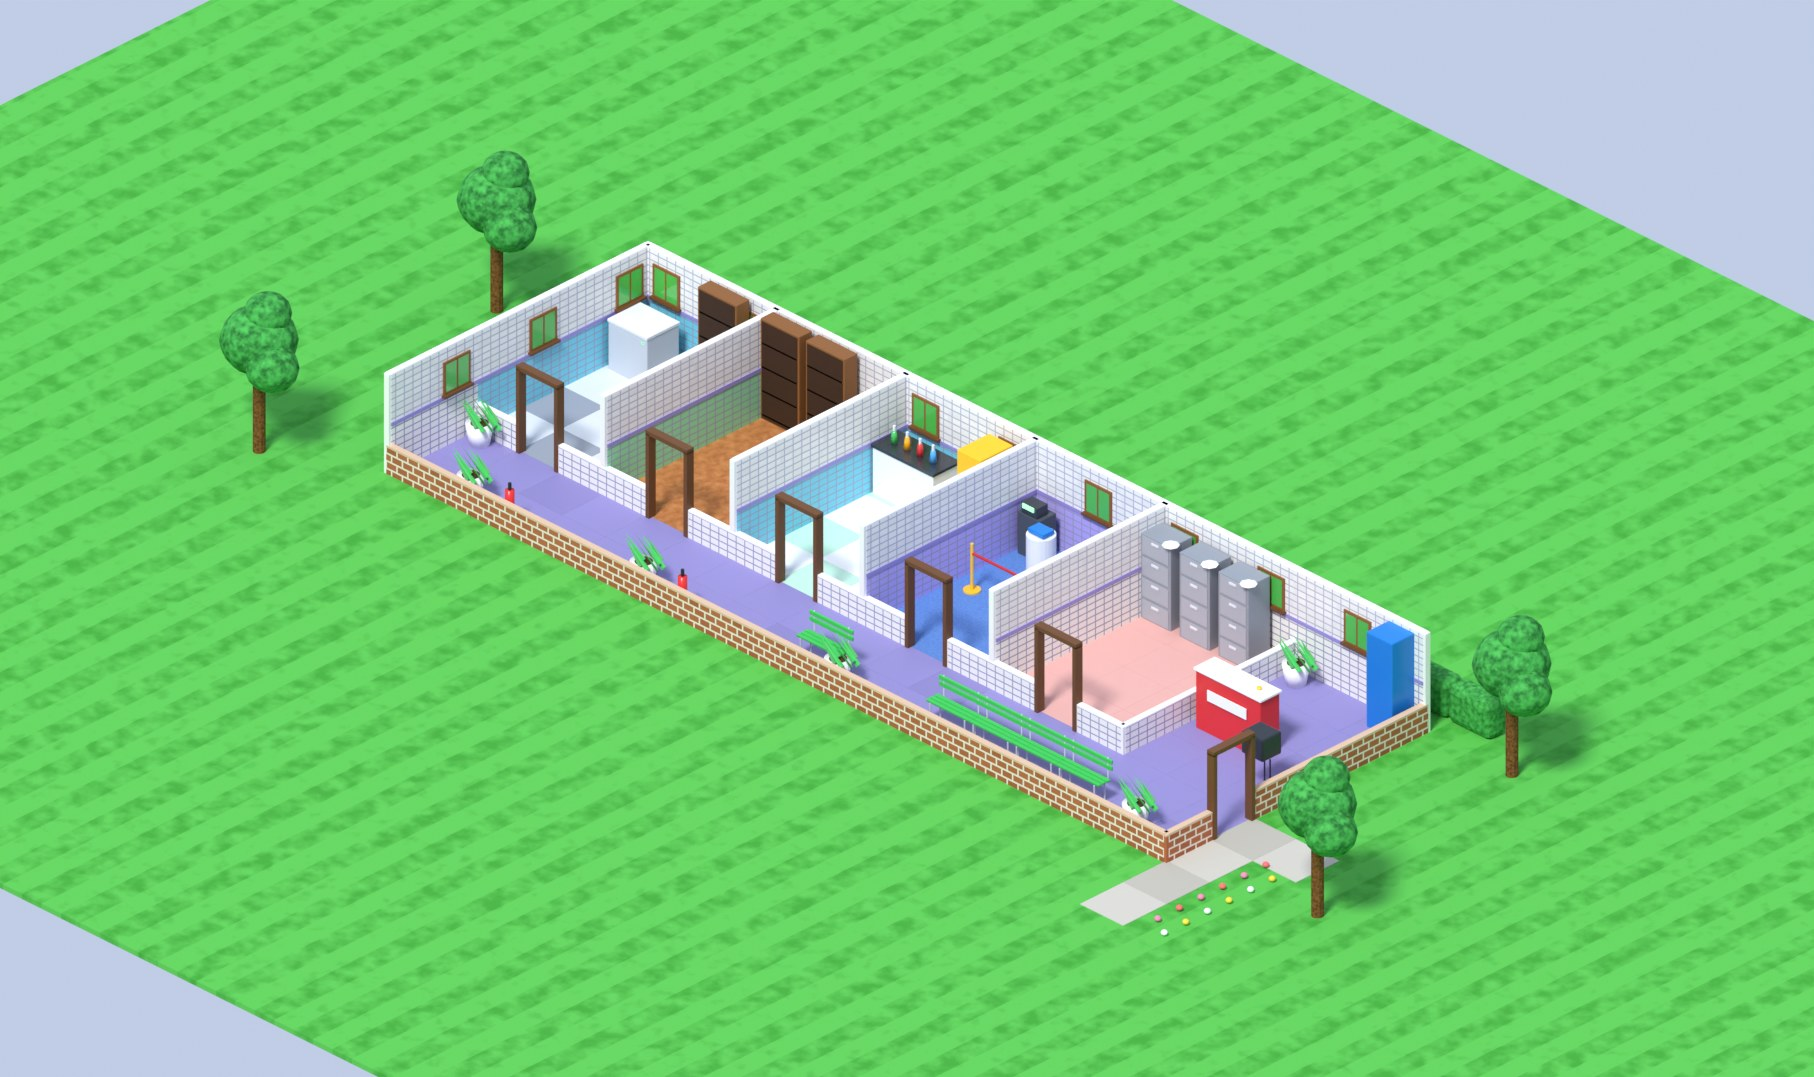
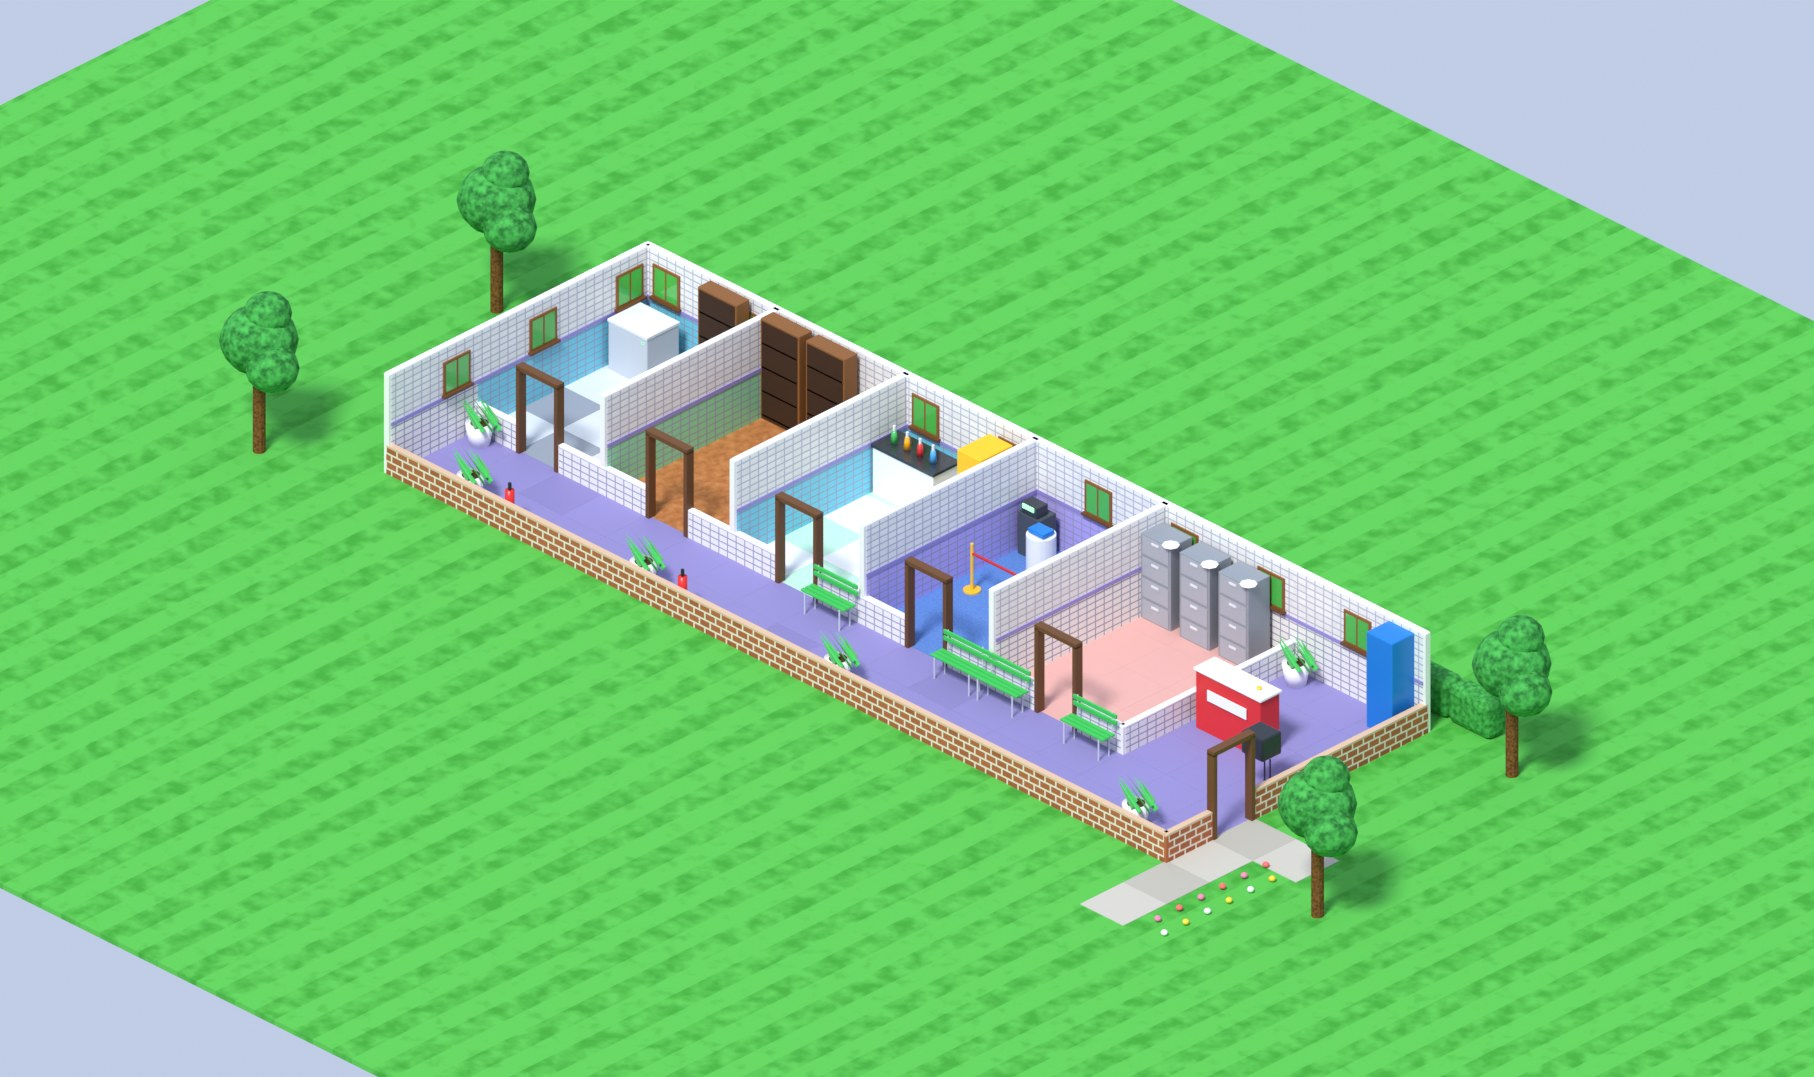
Combat en question-réponse, bancs face au couloir
- Combat : chaque échange repart d'une question d'Aurelien ; on choisit une
  réponse rédigée (le coup associé en petit), Dylan la prononce, puis l'attaque
  part. Correction d'une erreur clavier pendant la réplique.
- Centre de doc : bancs déplacés contre le mur des salles, assis face au
  couloir ; places assises de la file recalées dessus.

Claude-Session: https://claude.ai/code/session_011NWR5Wuob6Uw4BFYC3fWqb

Changed region(s): [[0.4322, 0.5209, 0.6174, 0.7354]]

diff --git a/village-talas-scene.html b/village-talas-scene.html
@@ -1309,13 +1309,13 @@ async function trial(n,fn,cause){
 
 /* ================= MINI-JEU : L'ARÈNE (combat 2D façon borne d'arcade) ================= */
 const SK={
- resp:{id:'resp',name:'UPPERCUT §5.1',desc:'La responsabilité ne se délègue pas.',fb:'§5.1 : la direction assume la responsabilité de la prévention. Elle délègue des tâches, jamais la responsabilité.'},
- cout:{id:'cout',name:'TABLEUR DES COÛTS CACHÉS',desc:'Quatorze onglets d’Excel, quatorze claques.',fb:'14 accidents avec arrêt, des jours perdus, un client qui peut partir : la SST est un investissement (§5.1 c).'},
- bird:{id:'bird',name:'PYRAMIDE DE BIRD',desc:'600 presque-accidents tombent du ciel.',fb:'Plus de signalements, c’est moins d’accidents graves. Et la direction protège ceux qui signalent (§5.1 j).'},
- cse:{id:'cse',name:'INVOCATION DU CSE',desc:'Mathilde et 40 opérateurs débarquent.',fb:'§5.4 : consultation et participation des travailleurs non cadres. Ce sont eux qui voient les vrais dangers.'},
- revue:{id:'revue',name:'REVUE DE DIRECTION ÉCLAIR',desc:'Agenda, décisions, compte rendu. La foudre.',fb:'La politique vit dans les processus et se pilote en revue de direction (§5.1 d, §9.3).'},
- obj:{id:'obj',name:'FLÉCHETTES S.M.A.R.T.',desc:'Cinq objectifs plantés dans le front.',fb:'§6.2 : des objectifs mesurables, suivis, avec des moyens, un responsable et une échéance. « Pas de souci », ça ne se mesure pas.'},
- role:{id:'role',name:'ORGANIGRAMME BOOMERANG',desc:'Chaque case revient avec un nom dessus.',fb:'§5.3 : la direction attribue et communique les rôles, responsabilités et autorités à tous les niveaux. Tout le monde, c’est personne.'}
+ resp:{id:'resp',ans:'La direction reste responsable de la sécurité : on délègue des tâches, jamais la responsabilité.',name:'UPPERCUT §5.1',desc:'La responsabilité ne se délègue pas.',fb:'§5.1 : la direction assume la responsabilité de la prévention. Elle délègue des tâches, jamais la responsabilité.'},
+ cout:{id:'cout',ans:'Les accidents coûtent plus cher que la prévention : arrêts, retards, clients perdus.',name:'TABLEUR DES COÛTS CACHÉS',desc:'Quatorze onglets d’Excel, quatorze claques.',fb:'14 accidents avec arrêt, des jours perdus, un client qui peut partir : la SST est un investissement (§5.1 c).'},
+ bird:{id:'bird',ans:'Chaque presque-accident signalé, c’est un accident grave évité demain.',name:'PYRAMIDE DE BIRD',desc:'600 presque-accidents tombent du ciel.',fb:'Plus de signalements, c’est moins d’accidents graves. Et la direction protège ceux qui signalent (§5.1 j).'},
+ cse:{id:'cse',ans:'Les travailleurs et le CSE doivent être consultés : ce sont eux qui voient les dangers.',name:'INVOCATION DU CSE',desc:'Mathilde et 40 opérateurs débarquent.',fb:'§5.4 : consultation et participation des travailleurs non cadres. Ce sont eux qui voient les vrais dangers.'},
+ revue:{id:'revue',ans:'La politique se pilote en revue de direction, avec des décisions et des moyens.',name:'REVUE DE DIRECTION ÉCLAIR',desc:'Agenda, décisions, compte rendu. La foudre.',fb:'La politique vit dans les processus et se pilote en revue de direction (§5.1 d, §9.3).'},
+ obj:{id:'obj',ans:'Il faut un objectif mesurable et daté, avec un responsable et des moyens.',name:'FLÉCHETTES S.M.A.R.T.',desc:'Cinq objectifs plantés dans le front.',fb:'§6.2 : des objectifs mesurables, suivis, avec des moyens, un responsable et une échéance. « Pas de souci », ça ne se mesure pas.'},
+ role:{id:'role',ans:'Chaque rôle doit être attribué et connu de tous, à tous les niveaux.',name:'ORGANIGRAMME BOOMERANG',desc:'Chaque case revient avec un nom dessus.',fb:'§5.3 : la direction attribue et communique les rôles, responsabilités et autorités à tous les niveaux. Tout le monde, c’est personne.'}
 };
 /* ps : l'animation de riposte, jouée en 2D par arena2D */
 const ATK=[
@@ -1644,19 +1644,20 @@ function arena2D(STAGE){
   function drawUI(t){const U=A.ui;if(!U)return;U.t+=1/60;const n=Math.floor(U.t*70);
     if(U.mode==='ask'){const L=wrap(U.line,W-40,8),bh=16+L.length*10;panel(8,46,W-16,bh);atext(U.title,14,54,10,'#fff6b0','#f0a000','left');
       let k=0;L.forEach((l,i)=>{const vis=l.slice(0,Math.max(0,n-k));k+=l.length;ptext(vis,14,62+i*10,8,'#ffffff')});
-      const bx=42,bw=W-84,by=H-6-U.opts.length*17-14;panel(bx,by,bw,U.opts.length*17+12);ptext('CONTRE-ATTAQUE',bx+6,by+3,7,'#8fe6ff');ptext(TOUCH?'touche un coup':'1 à 4 ou flèches + Espace',bx+bw-6,by+3,6,'#b8c4e6','right');
-      U.rects=[];U.opts.forEach((o,i)=>{const y=by+12+i*17;U.rects.push([bx,y,bw,17]);if(i===U.sel){g.fillStyle='rgba(255,214,70,.22)';g.fillRect(bx+2,y,bw-4,16);if(((t*4)|0)%2)ptext('▶',bx+4,y+3,8,'#ffd43b')}
-        ptext(String(i+1),bx+14,y+3,8,'#ffd43b');atext(o.name,bx+26,y+7,9,'#fff4c8','#f08c00','left');const dw=bw-40;ptext(wrap(o.desc,dw*.6,6)[0],bx+bw-6,y+5,6,'#c9d3ee','right')})}
+      const RH=22,bx=30,bw=W-60,by=H-6-U.opts.length*RH-14;panel(bx,by,bw,U.opts.length*RH+12);ptext('TA RÉPONSE',bx+6,by+3,7,'#8fe6ff');ptext(TOUCH?'touche une réponse':'1 à 4 ou flèches + Espace',bx+bw-6,by+3,6,'#b8c4e6','right');
+      U.rects=[];U.opts.forEach((o,i)=>{const y=by+12+i*RH;U.rects.push([bx,y,bw,RH]);if(i===U.sel){g.fillStyle='rgba(255,214,70,.22)';g.fillRect(bx+2,y,bw-4,RH-1);if(((t*4)|0)%2)ptext('▶',bx+3,y+6,8,'#ffd43b')}
+        ptext(String(i+1),bx+13,y+6,8,'#ffd43b');wrap('« '+o.ans+' »',bw-110,7).slice(0,2).forEach((l,k)=>ptext(l,bx+24,y+2+k*9,7,'#ffffff'));ptext('→ '+o.name,bx+bw-6,y+7,6,'#ffd8a8','right')})}
+    else if(U.mode==='cap'){const L=wrap(U.text,W-40,8),bh=16+L.length*10;panel(8,46,W-16,bh);atext(U.title,14,54,10,'#d3ffd8','#20b040','left');L.forEach((l,i)=>ptext(l,14,62+i*10,8,'#ffffff'))}
     else if(U.mode==='tell'){const L=wrap(U.text,W-100,8),bh=Math.min(H-60,24+L.length*10);const by=H-6-bh;panel(42,by,W-84,bh);atext(U.title,48,by+8,10,U.c1,U.c2,'left');
       let k=0;L.forEach((l,i)=>{const vis=l.slice(0,Math.max(0,n-k));k+=l.length;ptext(vis,48,by+16+i*10,8,'#ffffff')});
       if(n>=U.text.length&&((t*2.5)|0)%2)ptext(TOUCH?'▶ TOUCHE':'▶ ESPACE',W-50,by+bh-11,7,'#ffd43b','right')}}
-  function uiKey(e){const U=A.ui;if(!U)return;const n=Math.floor(U.t*70),full=(U.mode==='tell'?U.text:U.line).length;
+  function uiKey(e){const U=A.ui;if(!U||U.mode==='cap')return;const n=Math.floor(U.t*70),full=(U.mode==='tell'?U.text:U.line).length;
     if(U.mode==='ask'){const d=+e.key;if(d>=1&&d<=U.opts.length){U.done(U.opts[d-1]);e.preventDefault();return}
       if(e.key==='ArrowUp'||e.key==='z'||e.key==='Z'){U.sel=(U.sel+U.opts.length-1)%U.opts.length;beep(700,.03,'square',.03);e.preventDefault()}
       else if(e.key==='ArrowDown'||e.key==='s'||e.key==='S'){U.sel=(U.sel+1)%U.opts.length;beep(700,.03,'square',.03);e.preventDefault()}
       else if(e.key===' '||e.key==='Enter'){U.done(U.opts[U.sel]);e.preventDefault()}}
     else if(e.key===' '||e.key==='Enter'){if(n<full)U.t=99;else U.done();e.preventDefault()}}
-  function uiClick(e){const U=A.ui;if(!U)return;const rc=c.getBoundingClientRect(),x=(e.clientX-rc.left)/rc.width*W,y=(e.clientY-rc.top)/rc.height*H;
+  function uiClick(e){const U=A.ui;if(!U||U.mode==='cap')return;const rc=c.getBoundingClientRect(),x=(e.clientX-rc.left)/rc.width*W,y=(e.clientY-rc.top)/rc.height*H;
     if(U.mode==='ask'){(U.rects||[]).forEach(([rx,ry,rw,rh],i)=>{if(x>=rx&&x<=rx+rw&&y>=ry&&y<=ry+rh)U.done(U.opts[i])})}
     else{if(U.t*70<U.text.length)U.t=99;else U.done()}}
   addEventListener('keydown',uiKey);c.addEventListener('pointerdown',uiClick);
@@ -1807,6 +1808,7 @@ function arena2D(STAGE){
       Wn.busy=1;tween(.6,k=>{Wn.aF=1+k*2;Wn.aB=1-k*.5;Wn.y=Math.abs(Math.sin(k*Math.PI*2))*8});A.cheer=1;
       say3((Wn===D?'DYLAN':'AURELIEN')+' GAGNE !',{y:96,size:18,life:1.8});await wait(1600)},
     ask(title,line,opts){return openUI({mode:'ask',title,line,opts})},
+    async cap(title,text,ms){A.ui={mode:'cap',title,text,t:0,done:()=>{}};await wait(ms);if(A.ui&&A.ui.mode==='cap')A.ui=null},
     tell(title,text,good){return openUI({mode:'tell',title,text,c1:good===false?'#ffc9c9':good?'#d3ffd8':'#fff6b0',c2:good===false?'#e03131':good?'#20b040':'#f0a000'})},
     cancelUI(){if(A.ui){const u=A.ui;A.ui=null;c.style.pointerEvents='none'}},
     destroy(){removeEventListener('keydown',uiKey);A.run=false;c.remove();$('#hud').style.visibility=''}
@@ -1838,8 +1840,8 @@ async function battle(n){
       if(a===r2[0]){A.round1();await A.rage();await A.intro(2);await A.tell('AURELIEN ENRAGE !','Sa cravate se dresse, il tape du poing sur le bureau : « Tu crois m’avoir ? Deuxième round ! »',false)}
       A.taunt(a.name);
       const opts=shuffle([SK[a.counter],...shuffle(Object.values(SK).filter(s=>s.id!==a.counter)).slice(0,3)]);
-      const sk=await Promise.race([A.ask(a.name+' !',a.line,opts),A.timer(45)]);
-      A.stop();A.cancelUI();
+      const sk=await Promise.race([A.ask('AURELIEN : « '+a.name+' »',a.line+' Que lui réponds-tu ?',opts),A.timer(45)]);
+      A.stop();A.cancelUI();if(sk)await A.cap('DYLAN RÉPOND','« '+sk.ans+' »',2200);
       const ok=!!sk&&sk.id===a.counter;pts(n,ok);
       if(sk)await A.skill(sk.id,ok,ok?Math.round(rand(25,30)):5);else await A.timeOver();
       if(ok){await A.tell('C’EST SUPER EFFICACE !',a.fb||SK[a.counter].fb,true);continue}
@@ -1880,7 +1882,7 @@ const DOCQ=[
 ];
 const DOCR=[{n:'LÉGIFRANCE',s:'Code du travail',c:'#b197fc',k:'1'},{n:'INRS',s:'guides, VLEP',c:'#ffa94d',k:'2'},{n:'FDS',s:'fiches fournisseur',c:'#69db7c',k:'3'},{n:'ISO 45001',s:'la norme (AFNOR)',c:'#4dabf7',k:'4'},{n:'ARCHIVES',s:'registres, DUERP',c:'#ff8787',k:'5'}];
 
-const DOCV='2';
+const DOCV='3';
 /* Personnages du centre de doc : les mêmes bonshommes 3D que dans les autres mini-jeux (makePerson, cel-shading, contour),
    rendus une fois au lancement en planches de sprites, vus avec la caméra isométrique du décor pré-calculé. */
 const DOC_FRAMES=['wf0','wf1','wf2','wf3','wf4','wf5','wf6','wf7','wb0','wb1','wb2','wb3','wb4','wb5','wb6','wb7','if','ib','sit','pk0','pk1','wat','wk0','wk1','wk2','wk3','mp0','mp1','mp2','mp3'];
@@ -1953,7 +1955,7 @@ function docs2D(n,cfg){return new Promise(async res=>{
   function path(a,b,c2,d){const key=(i,j)=>i*30+j,prev={},Q=[[a,b]];prev[key(a,b)]=-1;
     while(Q.length){const[i,j]=Q.shift();if(i===c2&&j===d)break;for(const[di,dj]of[[1,0],[-1,0],[0,1],[0,-1]]){const x=i+di,y=j+dj;if(prev[key(x,y)]===undefined&&pass(i,j,x,y)){prev[key(x,y)]=key(i,j);Q.push([x,y])}}}
     const out=[];let k=key(c2,d);if(prev[k]===undefined)return[[c2,d]];while(k!==-1){out.unshift([Math.floor(k/30),k%30]);k=prev[k]}return out}
-  const QS=[[17,4],[16,4],[16,5],[15,5],[16,6],[15,6],[14,6],[13,6],[12,6],[10,6]];
+  const QS=[[17,4],[16,4],[17,5],[16,6],[15,5],[13,5],[12,5],[9,5],[15,6],[13,6]];   /* 4 à 7 : assis sur les bancs du couloir */
   /* --- caméra et projection : environ six cases à l'écran, comme dans le jeu --- */
   const cam={x:0,y:0,man:0};let first=true;
   function size(){const w=Math.round(GW*.75);if(w===W)return;W=w;c.width=W;c.height=H;S=SM.S}

diff --git a/village-talas.html b/village-talas.html
@@ -86,7 +86,7 @@ html body :is(button:disabled,[aria-disabled="true"]){cursor:not-allowed}
 <section class="band band--gouache band--project" id="village-talas"><div class="wrap corners">
  <div class="section-label"><span>Projet personnel</span><span>Jeu sérieux · Three.js</span></div>
  <div class="section-heading"><h1 class="page-title">Le Village Talas, l’ISO 45001 <em>en sept mini-jeux.</em></h1><p>Dylan, alternant HSE chez un sous-traitant aéronautique, a douze mois pour obtenir la certification ISO 45001 exigée par Airbus. Chaque bâtiment du village est un chapitre de la norme, avec son propre mini-jeu, et les choix faits dans un atelier reviennent dans les autres.</p></div>
- <figure class="gouache-preview preview--wide"><iframe src="village-talas-scene.html?v=20260925-23" title="Le Village Talas : jeu interactif" loading="lazy" allowfullscreen></iframe><figcaption><button type="button" class="talas-fs" id="talas-fs">Plein écran</button> Souris ou doigt pour viser, tourner et éclairer · flèches et Espace sur l’échafaudage et au casse-briques · « Tout ouvrir » pour accéder directement à un chapitre · jeu en paysage sur téléphone</figcaption></figure>
+ <figure class="gouache-preview preview--wide"><iframe src="village-talas-scene.html?v=20260925-24" title="Le Village Talas : jeu interactif" loading="lazy" allowfullscreen></iframe><figcaption><button type="button" class="talas-fs" id="talas-fs">Plein écran</button> Souris ou doigt pour viser, tourner et éclairer · flèches et Espace sur l’échafaudage et au casse-briques · « Tout ouvrir » pour accéder directement à un chapitre · jeu en paysage sur téléphone</figcaption></figure>
  <div class="quality-grid gouache-features"><article><span class="skill-kicker">§4 · §5</span><h3>Fantôme, combat et évacuation</h3><p>Attraper à l’épuisette les documents de contexte que jette le fantôme en pantoufles du prédécesseur, sans avaler ses chaussettes sales ni prendre ses pantoufles en pleine tête, puis affronter le PDG dans un combat 2D façon borne d’arcade (barres de vie, combos, K.O.), où chaque objection se contre avec le bon article de la norme et où chaque coup fait exactement ce que son nom promet : uppercut §5.1, claques au tableur, pluie de presque-accidents, avant un exercice d’évacuation en course poursuite dans la zone industrielle Talas au coucher du soleil (façon Hercule) : le PDG en géant costumé saccage bureaux, hangars et chaîne d’assemblage, Dylan saute, glisse et guide ses collègues jusqu’au point de rassemblement.</p></article><article><span class="skill-kicker">§6 · §7 · §8</span><h3>Tuyaux, festin, karaoké, centre de doc et plateforme 2D</h3><p>Tourner les tuyaux pour relier chaque danger à sa mesure, tamponner à table les mesures qui tombent dans ton assiette et refiler les fausses bonnes idées, face à trois collègues-bots aux bras élastiques (façon épreuve du festin d’Astérix), chanter en rythme les consignes du quart d’heure sécurité pour réveiller l’atelier, orienter des visiteurs grotesques vers la bonne source (Légifrance, INRS, FDS, norme, archives) dans un centre de documentation en vue isométrique façon Theme Hospital, puis un long parcours en vue de côté, façon dessin animé, avec double saut en salto à la Panthère rose : sieste dans l’entrepôt, toupie contre les caisses et les ouvriers pressés, extincteur à porter jusqu’au feu, chariot sur rails, vigile évité dans un carton, puis la ville de nuit, poursuivi par le PDG, le toit d’un chantier, et enfin le canal du Midi : péniches, auvent-trampoline, écluse et grue, avec seulement trois cœurs.</p></article><article><span class="skill-kicker">§9 · §10</span><h3>Polygraphe et opération</h3><p>Tamponner les chefs d’équipe dont le nez s’allonge quand ils jurent que tout est conforme, puis extraire à la pince les causes racines coincées dans le ventre de l’accident, sans toucher les bords. Le verdict final dépend des effets domino de tout le parcours.</p></article></div>
  <div class="gouache-stack"><strong>Crédits</strong><span>Développement : Mathieu Comtesse · Scénario coproduit avec Eliott Corne, Dylan Zouiter, Mathilde Chartrel, Georges Barthélemy Fonkou, Neila Mimane et Lorette Dagleris</span></div>
  <div class="gouache-stack"><strong>Compétences mobilisées</strong><span>ISO 45001 (§4 à §10) · hiérarchie des mesures de prévention · audit interne · JavaScript · Three.js (rendu toon, ombres, tramage) · Canvas 2D · Pointer Events · commandes tactiles</span></div>

diff --git a/tools/talas-doc/scene.py b/tools/talas-doc/scene.py
@@ -221,7 +221,7 @@ for k in range(3): add('cyl', (18.5 + math.cos(k * 2.1) * .2, -4.3 + math.sin(k 
 add('cube', (18.5, -4.3, .95), (.5, .45, .42), mat('#2b2f36', .3), c=c, bevel=.03)
 add('cube', (18.5 - .26, -4.3, .97), (.02, .34, .3), mat('#74c0fc', .1, emit=.8), c=c)
 # couloir
-for x in (16.5, 15.5, 14.5, 13.5, 10.5): bench('bench%d' % int(x * 10), x, -6.45)
+for x in (15.5, 13.5, 12.5, 9.5): bench('bench%d' % int(x * 10), x, -5.35)   # contre le mur des salles, assis face au couloir
 for k, (x, y) in enumerate(((17.8, 6.5), (11, 6.6), (6.5, 6.6), (2.5, 6.6), (1.4, 5.3))): plant('plant%d' % k, x, -y)
 for k, x in enumerate((7.6, 3.6)):
     c = occ('ext%d' % k, x + 6.8)
